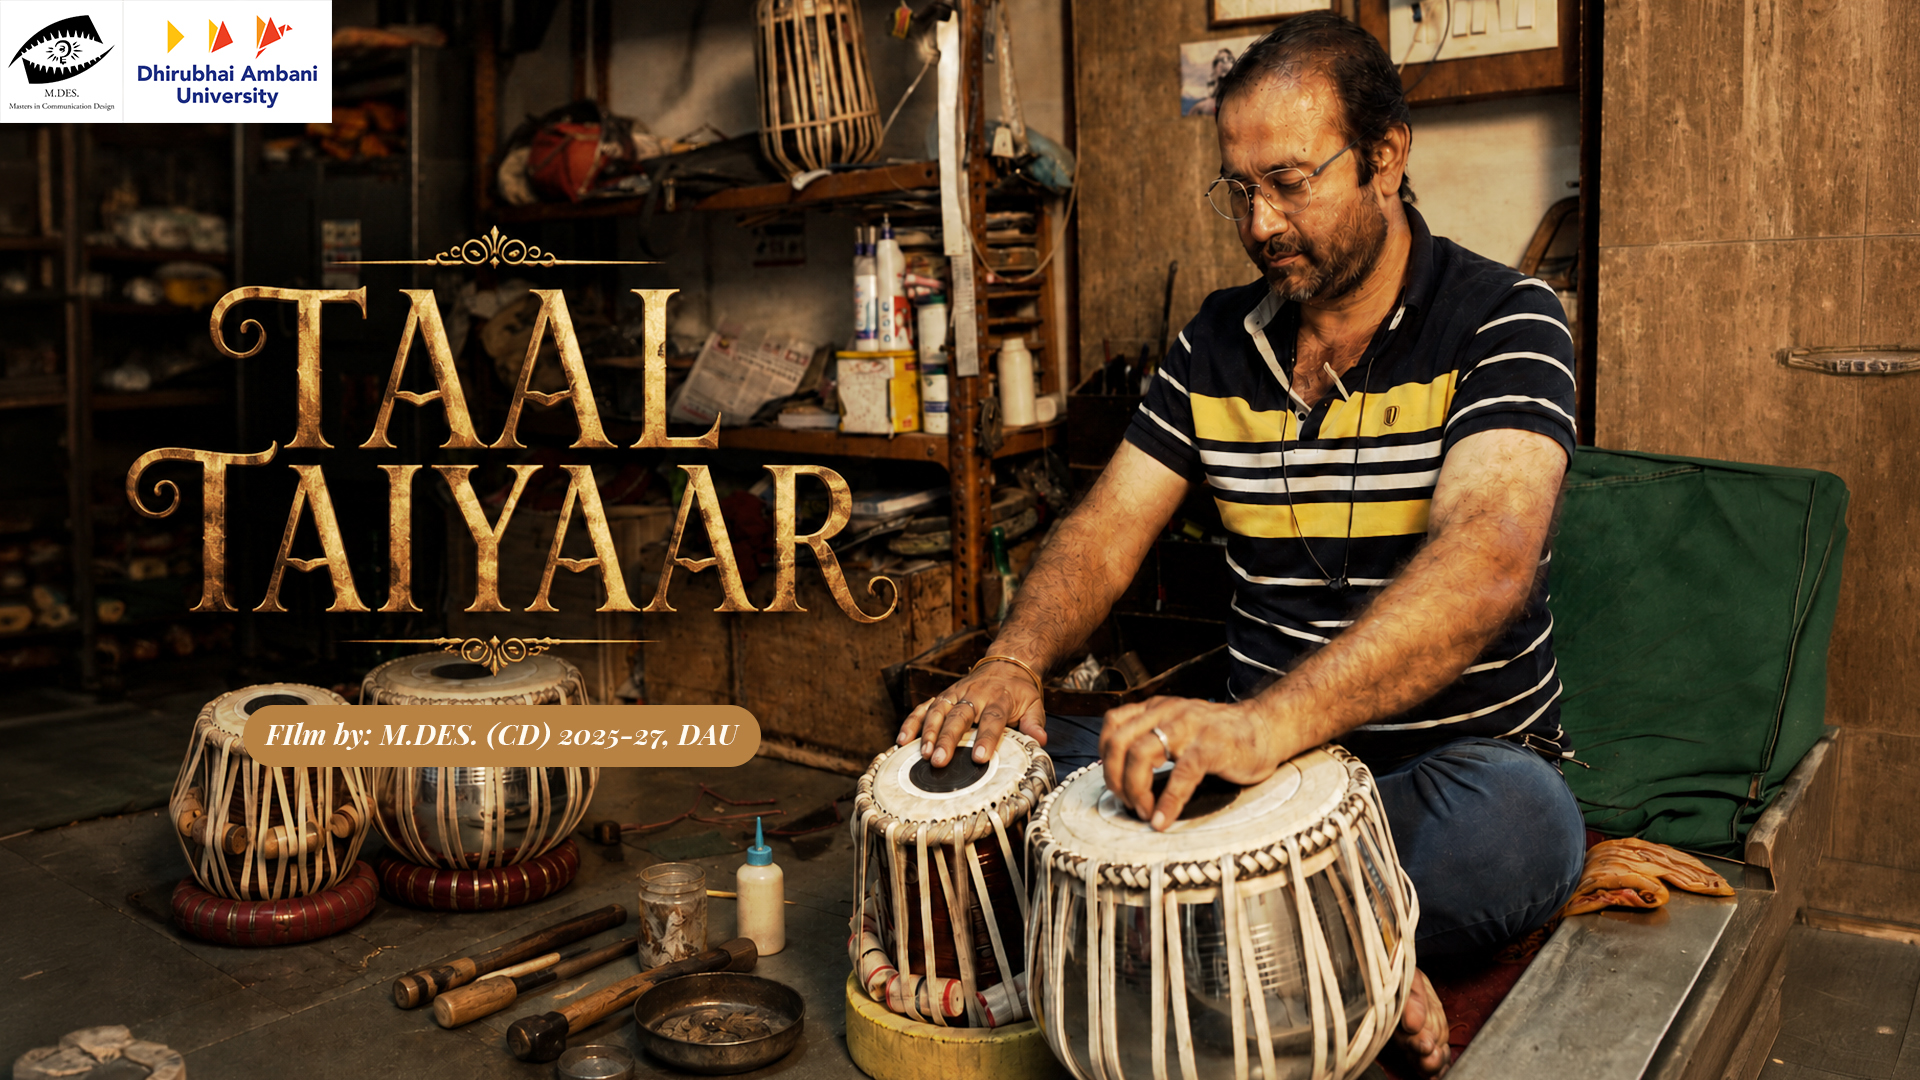
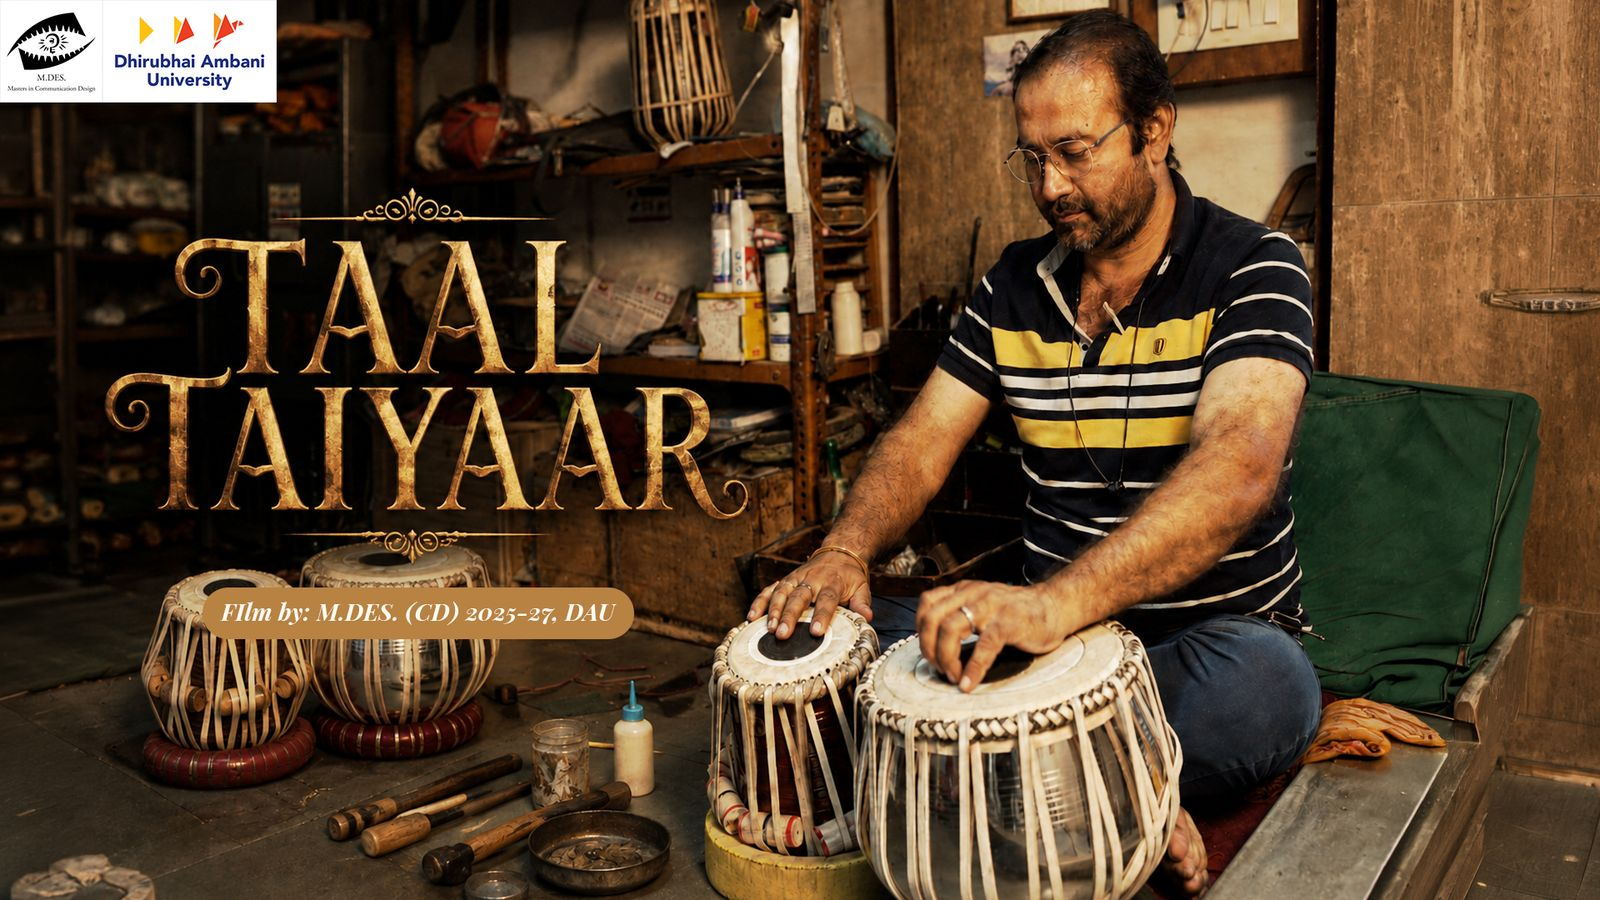
chore: compress and resize all large CMS uploads to improve performance

Changed region(s): [[0.0625, 0.0622, 0.1562, 0.0933], [0.2188, 0.2178, 0.2812, 0.2489], [0.25, 0.5911, 0.2812, 0.6222]]

diff --git a/src/content/portfolio/design/design-horizon.md b/src/content/portfolio/design/design-horizon.md
@@ -2,7 +2,7 @@
 title: Citizen Kane - A Study in Type
 section: design
 date: 2025-10-07
-image: /uploads/Poster 1.jpg
+image: /uploads/poster-1.jpg
 description: A typographic exploration of Citizen Kane, using four posters to investigate how type, hierarchy, composition and information can become the visual language of a film.
 youtubeId: ''
 ---
@@ -39,7 +39,7 @@ This poster pushes typography away from its usual role as a means of readable in
 
 Large words become forms within the composition, changing scale and perspective to create movement across the page. The text is still carrying information, but its arrangement becomes equally important to what the poster communicates.
 
-![Expressive type poster](/uploads/Expressive.jpg)
+![Expressive type poster](/uploads/expressive.jpg)
 
 ***
 
@@ -51,7 +51,7 @@ The synopsis, film information, cast, and other details are arranged in a clear 
 
 The intention was to see how much visual interest could be created through **typographic hierarchy alone**, without adding unnecessary graphic elements.
 
-![Functional Poster](/uploads/Functional%201.jpg)
+![Functional Poster](/uploads/functional-1.jpg)
 
 ***
 
@@ -63,7 +63,7 @@ The information radiates from a central point, creating a composition where diff
 
 The poster becomes less about reading from top to bottom and more about **moving through the information**.
 
-![Second functional poster](/uploads/Functional%202.jpg)
+![Second functional poster](/uploads/functional-2.jpg)
 
 ***
 
@@ -73,7 +73,7 @@ The final poster brings typography and imagery together more traditionally, whil
 
 A restrained colour palette, large-scale title treatment and grainy photographic texture give it a slightly archival character, referencing the visual language of classic cinema while keeping the composition contemporary.
 
-![Film Poster](/uploads/Poster%201.jpg)
+![Film Poster](/uploads/poster-1.jpg)
 
 ***
 
